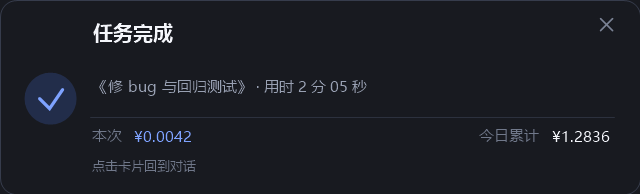
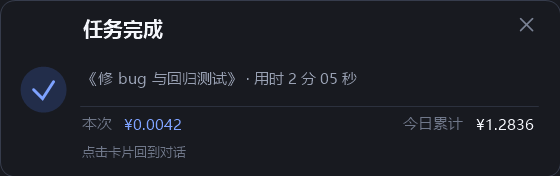
style: 提醒卡片缩窄到 560×176（原 640×194）
宽度 640→560、高度 194→176，内边距、圆角、徽章与勾形同步收小，
金额行与提示行随之收紧；卡片仍然固定尺寸，长标题照旧折两行省略。

diff --git a/README.md b/README.md
@@ -10,7 +10,7 @@
 
 - **什么时候提醒**：任意会话的回合结束时（宿主把该会话的 `running` 从 `true` 改成 `false`）。
 - **什么时候不提醒**：DSH 窗口在最前面时不弹卡片（你正看着答案）；内部子代理会话结束也不提醒（`origin === 'subagent'`，那些是内部步骤，父会话的结果才是你要看的）。
-- **提醒长什么样**：右下角一张深色卡片，标题「任务完成」，正文「《会话标题》 · 用时 2 分 05 秒」，正文下面一行是金额：「本次 ¥0.0042」在左、「今日累计 ¥1.2836」在右；点卡片会把 DSH 窗口拿到前台；15 秒后自动消失，鼠标停在上面时不倒计时。卡片固定大小（本机实测 640×194）；一行放不下时标题折两行并省略，**用时和金额永远完整显示**。
+- **提醒长什么样**：右下角一张深色卡片，标题「任务完成」，正文「《会话标题》 · 用时 2 分 05 秒」，正文下面一行是金额：「本次 ¥0.0042」在左、「今日累计 ¥1.2836」在右；点卡片会把 DSH 窗口拿到前台；15 秒后自动消失，鼠标停在上面时不倒计时。卡片固定大小（本机实测 560×176）；一行放不下时标题折两行并省略，**用时和金额永远完整显示**。
 - **窗口最小化时**：另外把网页标题改成 `🔔 任务完成`，任务栏上能看见；回到窗口自动还原。
 
 ## 花费是怎么算的
@@ -47,7 +47,7 @@ DSH 只记 token，不记钱：`TokenUsage` 里没有任何价格字段，也没
   - 子进程**不能** `detached: true`：它会跟着本进程的 job object 一起被杀掉，卡片永远不出现。
   - 脚本经 UTF-8（带 BOM）临时文件 + `Invoke-Expression` 交接：`-EncodedCommand` 的 base64 会让命令行超长（`spawn ENAMETOOLONG`），而本机执行策略禁止直接跑 `.ps1` 文件，所以要读成文本再执行。
 - **卡片** `lib/card.ps1`：
-  - 尺寸固定为 640×194，每次提醒占的屏幕一样大；
+  - 尺寸固定为 560×176，每次提醒占的屏幕一样大；
   - 正文一行放得下就单行显示（在预留的两行高度里垂直居中），放不下就折两行——标题允许截断加省略号，用时作为独立的一段右对齐放在第二行，永远完整；
   - 无控制台的进程第一次 `ShowWindow` 会沿用隐藏，所以 `Show()` 之后要显式 `ShowWindow(hwnd, SW_SHOWNOACTIVATE)` + `SetWindowPos(HWND_TOPMOST, SWP_SHOWWINDOW)`；
   - 整张卡片一次性画进 Bitmap，`Paint` 里只 `DrawImageUnscaled`——直接往窗体上画字，在首次绘制时会被整块跳过；
